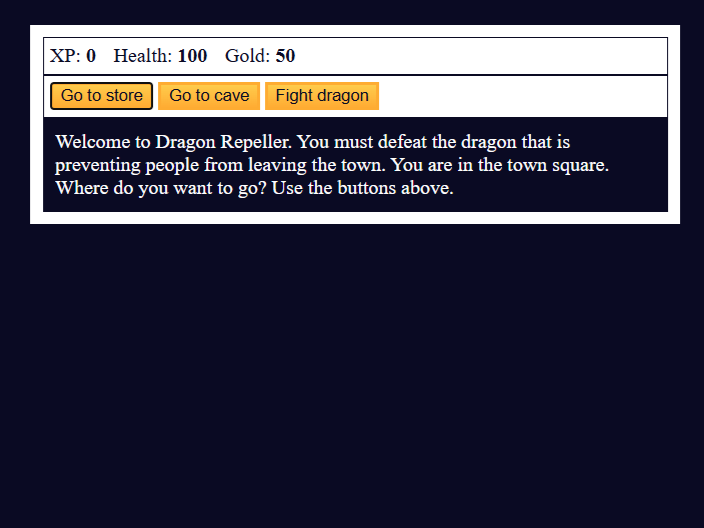
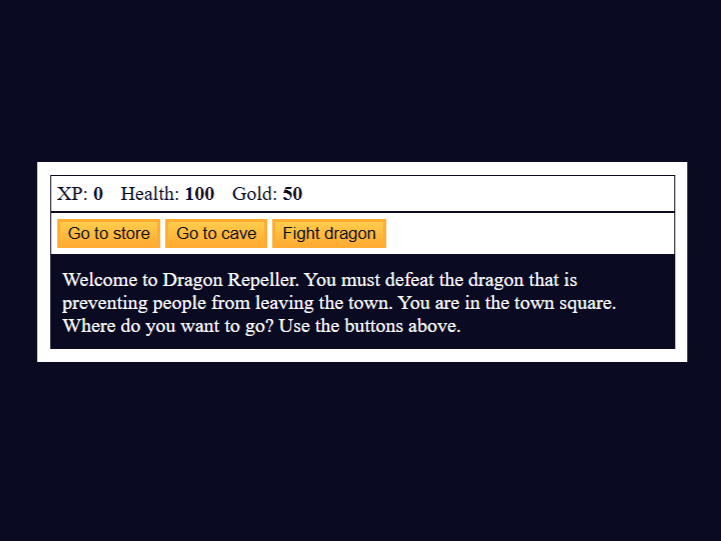
added a new project to work

diff --git a/index.html b/index.html
@@ -86,6 +86,14 @@
         </a>
       </div>
       <div class="card">
+        <a href="https://rohnroy0.github.io/dragon-repeller-rpg/" target="_blank">
+          <article class="project-tile">
+            <img src="preview-images/pp08.png"></img>
+            <p>Dragon Repeller RPG</p>
+          </article>
+        </a>
+      </div>
+      <div class="card">
         <a href="https://rohnroy0.github.io/city-skyline-css-art/" target="_blank">
           <article class="project-tile">
             <img src="preview-images/pp02.png"></img>
